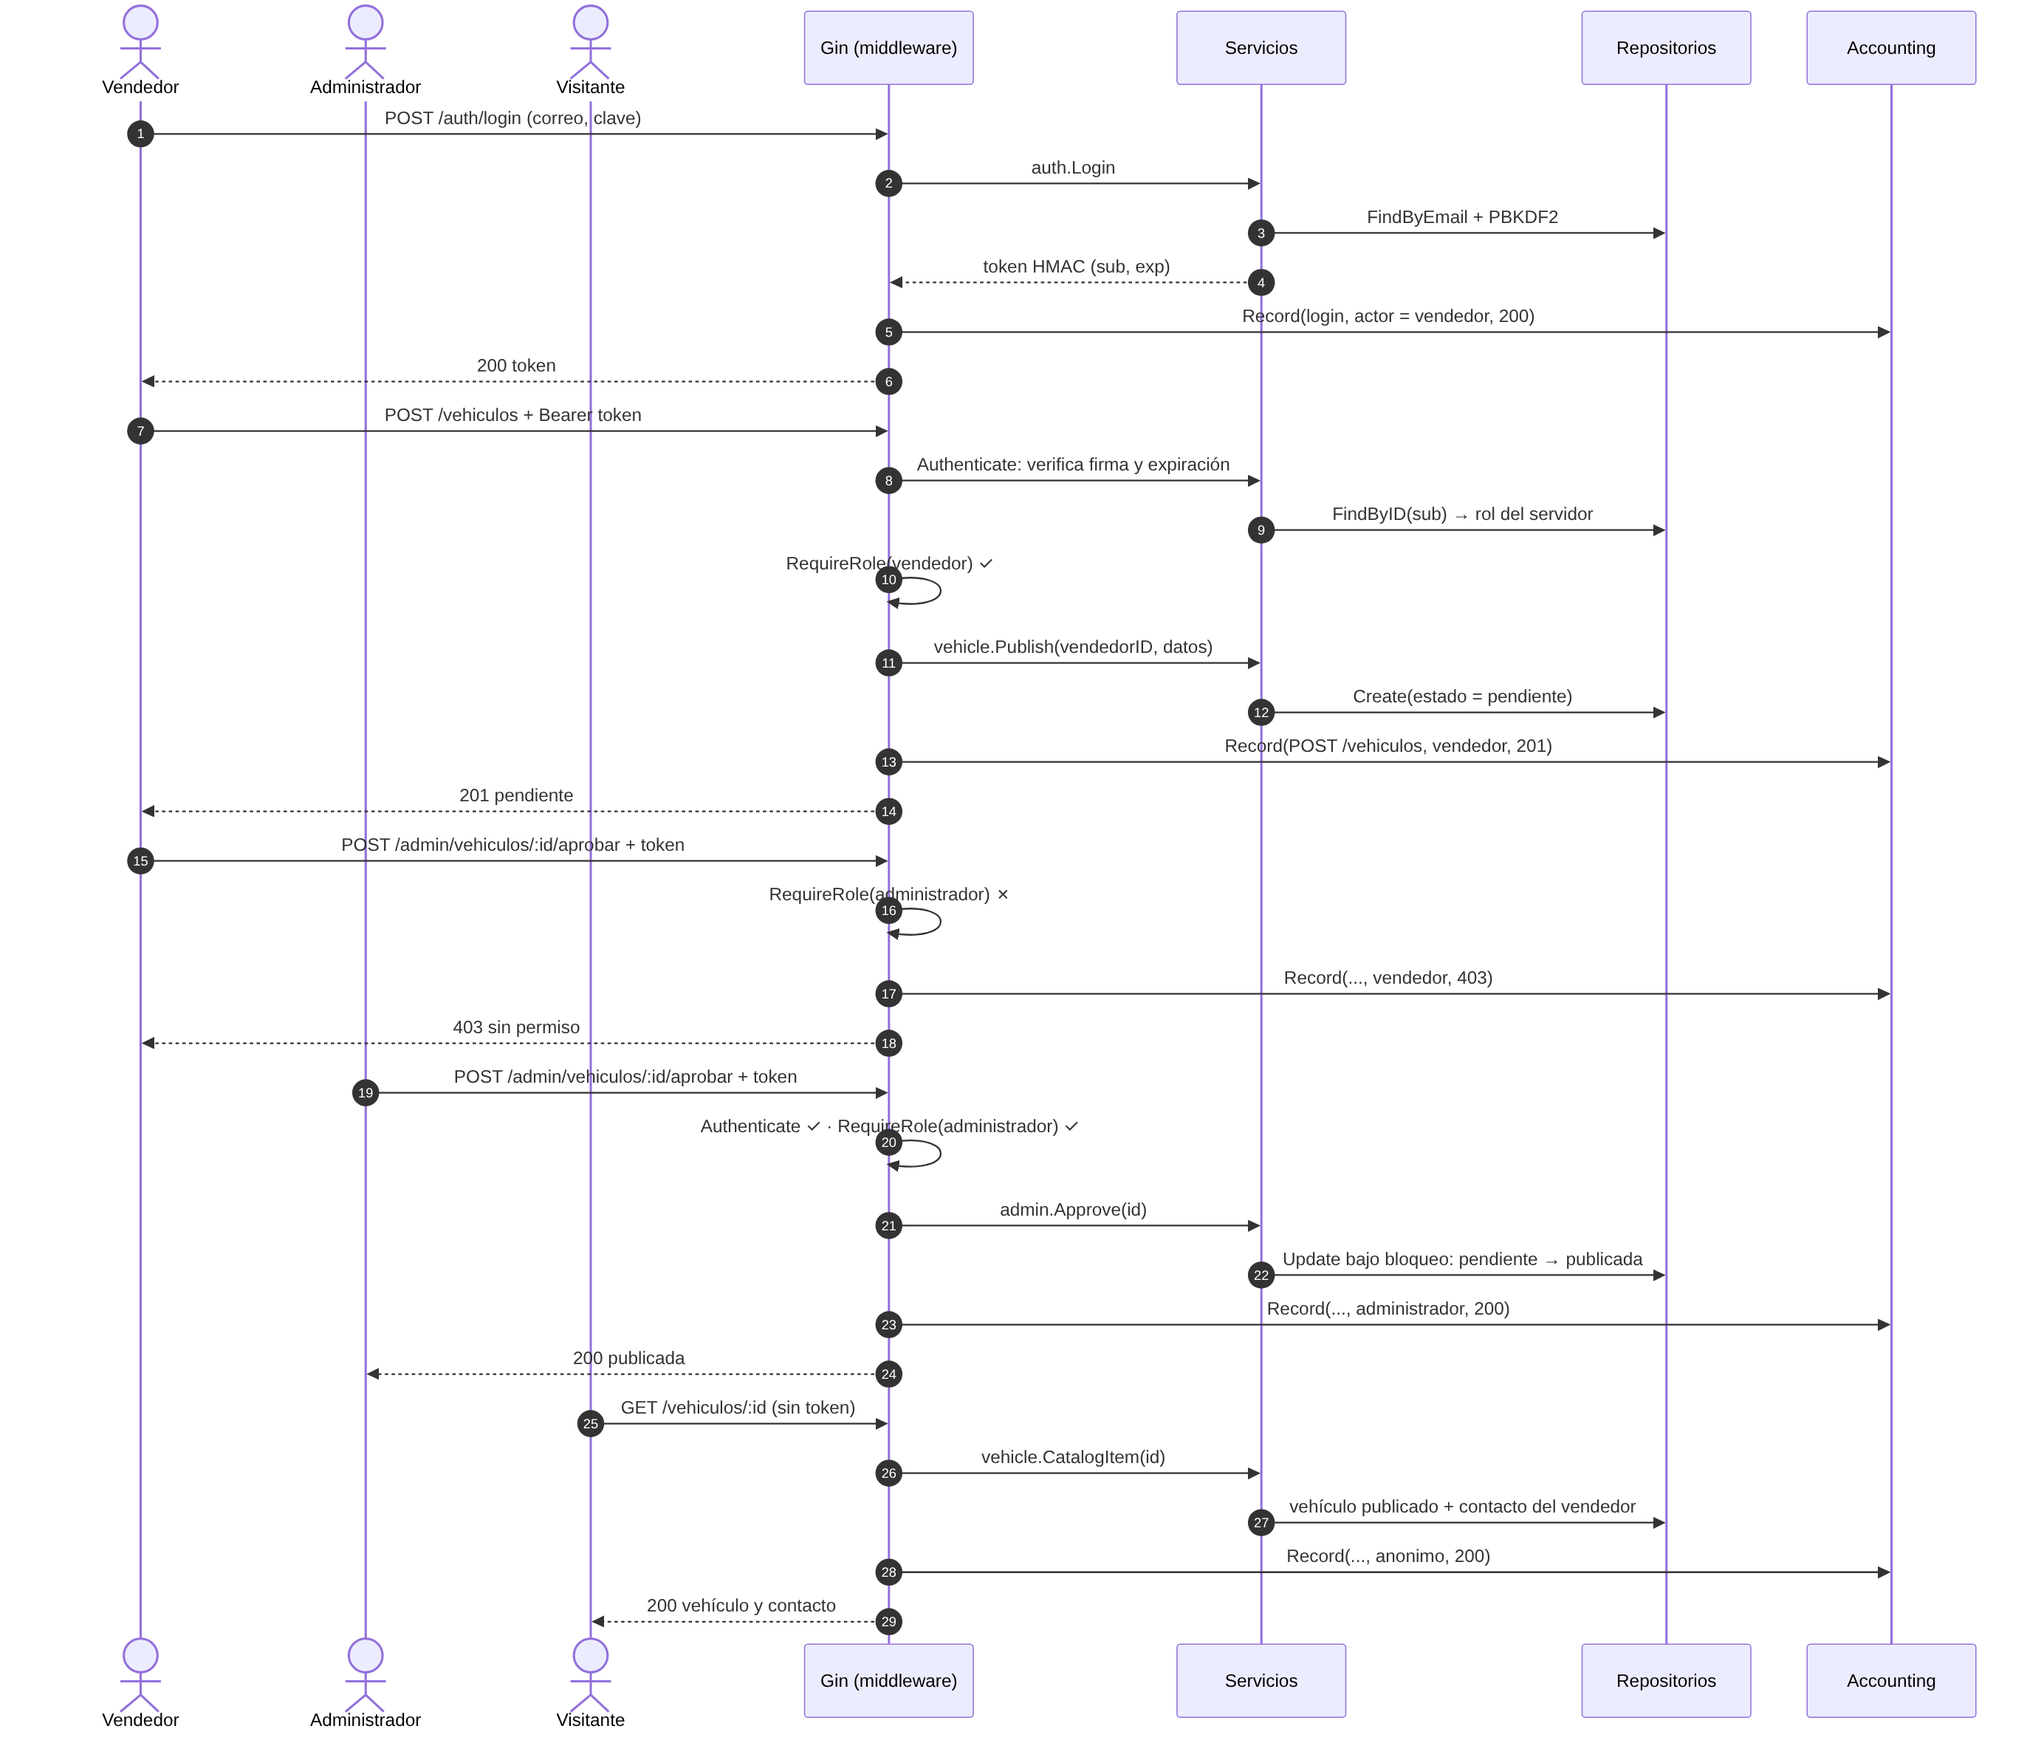
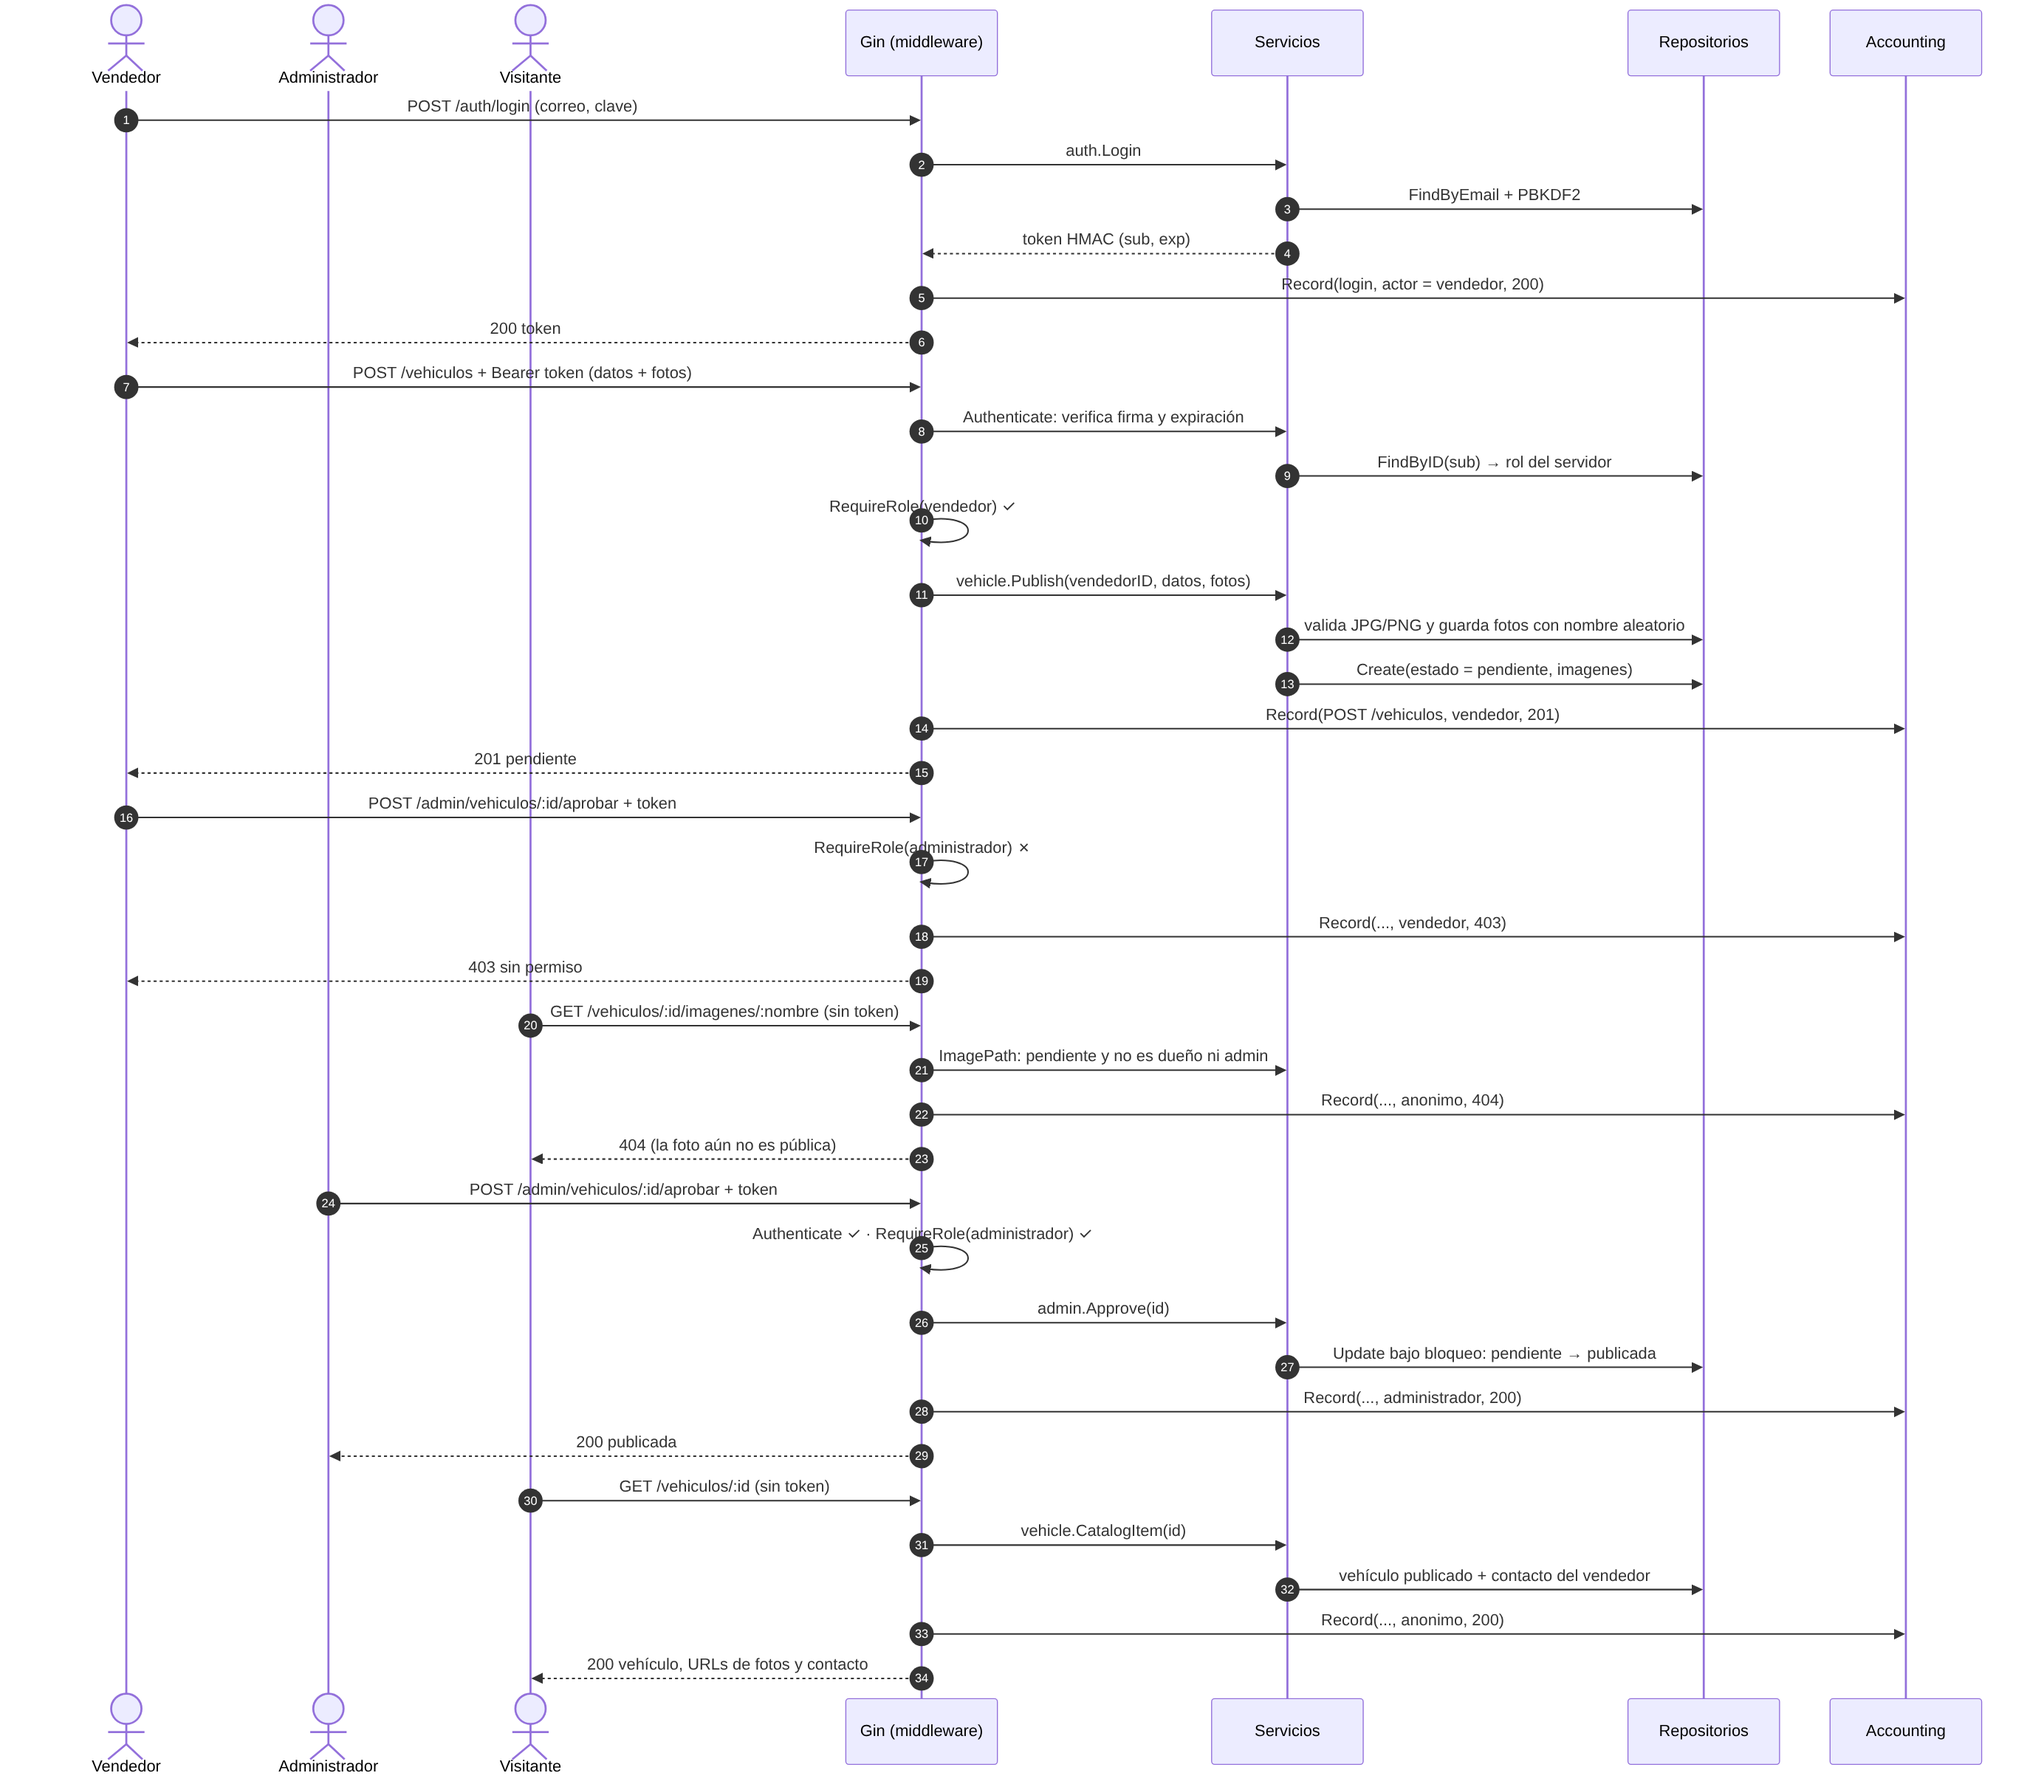
docs: fotos en guías, rutas y diagramas
Claude-Session: https://claude.ai/code/session_01RDBKRRiPf5cGR5gfdP9QC4

diff --git a/docs/integracion-vehiculos.md b/docs/integracion-vehiculos.md
@@ -16,6 +16,7 @@ AUTH_SECRET=cambia-esto go run ./cmd/server
 | Variable | Por defecto | Uso |
 |---|---|---|
 | `VEHICLES_FILE` | `data/vehicles.json` | Archivo de vehículos. |
+| `IMAGES_DIR` | `data/imagenes` | Carpeta de fotos (una subcarpeta por vehículo). |
 
 Las demás variables (`AUTH_SECRET`, `DATA_FILE`, `PORT`) están en
 [integracion-auth.md](integracion-auth.md).
@@ -36,19 +37,51 @@ el servidor; si el cliente los envía, se ignoran.
 |---|---|---|
 | `GET /vehiculos` | cualquiera | `200` lista de publicados, cada uno con `vendedor` (nombre, email, teléfono) |
 | `GET /vehiculos/:id` | cualquiera | `200` el vehículo con `vendedor`; `404` si no existe o no está publicado |
-| `POST /vehiculos` | vendedor | `201` publicación en estado `pendiente` |
+| `POST /vehiculos` | vendedor | `201` publicación en estado `pendiente` (multipart: datos + 1 a 8 fotos) |
+| `GET /vehiculos/:id/imagenes/:nombre` | ver abajo | `200` la foto; `404` si no existe o no puede verla |
+| `POST /vehiculos/:id/imagenes` | vendedor dueño, solo pendiente | `200` agrega fotos; `409` si ya fue aprobada |
+| `DELETE /vehiculos/:id/imagenes/:nombre` | vendedor dueño, solo pendiente | `200` quita una foto (siempre queda al menos una) |
 | `POST /vehiculos/:id/venta` | vendedor dueño | `200` estado `vendida`; `403` si es de otro; `409` si ya estaba vendida |
 | `GET /vendedor/vehiculos` | vendedor | `200` sus publicaciones en cualquier estado |
 
 ```bash
 TOKEN=…   # de POST /auth/login
 curl -X POST localhost:8080/vehiculos -H "Authorization: Bearer $TOKEN" \
-  -H 'Content-Type: application/json' \
-  -d '{"marca":"Renault","modelo":"Koleos","anio":2019,"precio":78000000,"kilometraje":60000}'
+  -F marca=Renault -F modelo=Koleos -F anio=2019 -F precio=78000000 -F kilometraje=60000 \
+  -F imagenes=@frente.jpg -F imagenes=@interior.png
 ```
 
 Errores: `400` datos inválidos, `401` sin token válido, `403` rol o dueño
-incorrecto, `404`, `409`. Siempre con la forma `{"error":"mensaje"}`.
+incorrecto, `404`, `409`, `413` formulario demasiado grande. Siempre con la
+forma `{"error":"mensaje"}`.
+
+## Fotos
+
+- **Dónde:** archivos en `data/imagenes/<id del vehículo>/`. En `vehicles.json`
+  cada vehículo solo guarda la lista de nombres (`"imagenes": ["a1b2….jpg", …]`);
+  la primera es la portada.
+- **Validación (`internal/imagestore`, solo librería estándar):**
+  - De 1 a 8 fotos por publicación, máximo 5 MB cada una y 6000 × 6000 px.
+  - Solo JPG o PNG, comprobado leyendo la cabecera del archivo con
+    `image.DecodeConfig`; no se confía en el nombre ni en el `Content-Type` del
+    cliente.
+  - El cuerpo de la solicitud se corta en 41 MB (`http.MaxBytesReader`).
+- **Nombres:** los genera el servidor (32 caracteres aleatorios + extensión) y
+  se descarta el nombre original. `Path` solo acepta ese formato, así que no se
+  puede leer ni escribir fuera de la carpeta (`../`).
+- **Quién las ve (AAA):** las de un vehículo publicado son públicas. Las de uno
+  pendiente o vendido solo las ven su vendedor y el administrador; los demás
+  reciben `404`, igual que en el catálogo. La ruta acepta el token por
+  `Authorization: Bearer` o por la cookie de sesión (`OptionalAuthenticate`),
+  porque el navegador las pide desde `<img>`.
+- **Cambios:** el vendedor puede agregar y quitar fotos solo mientras la
+  publicación está pendiente, para que el administrador apruebe exactamente lo
+  que se mostrará.
+- **Respuesta:** `X-Content-Type-Options: nosniff`, para que el navegador nunca
+  la interprete como otra cosa que una imagen.
+- **Accounting:** cada vez que alguien ve una foto queda una entrada
+  `GET /vehiculos/:id/imagenes/:nombre` con su resultado.
+- **Borrado:** al eliminar una publicación o un usuario se borran también sus fotos.
 
 ## Sitio web (plantillas de Gin)
 
@@ -57,6 +90,7 @@ incorrecto, `404`, `409`. Siempre con la forma `{"error":"mensaje"}`.
 | `/` catálogo y `/catalogo/:id` detalle con contacto | cualquiera |
 | `/ingresar`, `/registro`, `POST /salir` | cualquiera |
 | `/publicar`, `/mis-vehiculos`, `POST /mis-vehiculos/:id/vendido` | vendedor |
+| `/mis-vehiculos/:id/fotos` (agregar y quitar fotos mientras está pendiente) | vendedor dueño |
 
 - Plantillas `html/template` + un CSS, en `internal/httpapi/web/`, embebidos en
   el ejecutable. Sin JavaScript ni librerías externas.
@@ -81,7 +115,12 @@ incorrecto, `404`, `409`. Siempre con la forma `{"error":"mensaje"}`.
 
 ## Decisiones de diseño
 
-- Datos del vehículo: marca, modelo, año, precio (pesos, entero) y kilometraje.
+- Datos del vehículo: marca, modelo, año, precio (pesos, entero), kilometraje y de 1 a 8 fotos.
+- Galería del detalle sin JavaScript: un radio oculto por foto; miniaturas y
+  flechas son `<label>` que lo marcan, y el CSS muestra la foto marcada. La
+  vista ampliada se abre con `#ampliada-N` (`:target`) y ofrece "Ajustar a la
+  pantalla" y "Ampliar 2×" (otro par de radios). Con el teclado, las flechas
+  cambian de foto.
 - `jsonfile` comparte la carga y la escritura atómica con el repositorio de
   usuarios; `ids` comparte el generador de IDs aleatorios (no se pueden
   adivinar ni recorrer en orden).

diff --git a/docs/guia-ejecucion.md b/docs/guia-ejecucion.md
@@ -40,6 +40,7 @@ Sitio: http://localhost:8080 · API: mismas rutas, en JSON.
 | `PORT` | no | `8080` | Puerto HTTP. |
 | `DATA_FILE` | no | `data/users.json` | Usuarios. |
 | `VEHICLES_FILE` | no | `data/vehicles.json` | Vehículos. |
+| `IMAGES_DIR` | no | `data/imagenes` | Fotos de los vehículos. |
 | `ACCOUNTING_FILE` | no | `data/accounting.log` | Registro de accounting. |
 
 Para empezar de cero, borre la carpeta `data/`.
@@ -48,9 +49,12 @@ Para empezar de cero, borre la carpeta `data/`.
 
 1. **Visitante:** abrir `/`. El catálogo está vacío.
 2. **Registro y autenticación:** "Vender mi carro", crear la cuenta e ingresar.
-3. **Publicar:** "Publicar vehículo". Queda *Pendiente de aprobación* en "Mis vehículos" y no aparece en el catálogo.
+3. **Publicar:** "Publicar vehículo" con sus datos y de 1 a 8 fotos (JPG o PNG). Queda *Pendiente de aprobación* en "Mis vehículos" y no aparece en el catálogo. Mostrar también que un archivo que no es imagen se rechaza.
+   - **Fotos privadas:** copiar la dirección de una foto, abrirla en una ventana de incógnito (sin sesión) y ver que responde que no existe.
+   - **Cambiar fotos:** en "Mis vehículos", "Cambiar fotos" para agregar o quitar mientras está pendiente.
 4. **Autorización:** con la sesión del vendedor, abrir `/panel`: responde *Tu cuenta no tiene permiso para esto* (403).
-5. **Administrador:** salir, ingresar con `ADMIN_EMAIL`, abrir "Panel de administración" y aprobar. Ahora aparece en el catálogo con el contacto del vendedor.
+5. **Administrador:** salir, ingresar con `ADMIN_EMAIL`, abrir "Panel de administración", revisar las fotos y aprobar. Ahora aparece en el catálogo con sus fotos y el contacto del vendedor, y el vendedor ya no puede cambiar las fotos.
+   - **Galería:** en el detalle, pasar fotos con las flechas o las miniaturas, hacer clic para ampliar y usar "Ampliar 2×".
 6. **Venta:** volver como vendedor y "Reportar venta". Sale del catálogo.
 7. **Eliminar usuario:** como administrador, eliminar al vendedor. Su sesión deja de servir.
 8. **Accounting:** abrir `data/accounting.log`. Cada línea muestra operación, recurso, actor, rol, resultado, IP y momento.
@@ -72,8 +76,9 @@ TOKEN=$(curl -s -X POST localhost:8080/auth/login -H 'Content-Type: application/
   -d '{"email":"ana@correo.com","password":"clave-segura-1"}' | sed -E 's/.*"token":"([^"]+)".*/\1/')
 
 # Publicar (vendedor)
-curl -X POST localhost:8080/vehiculos -H "Authorization: Bearer $TOKEN" -H 'Content-Type: application/json' \
-  -d '{"marca":"Renault","modelo":"Koleos","anio":2019,"precio":78000000,"kilometraje":60000}'
+curl -X POST localhost:8080/vehiculos -H "Authorization: Bearer $TOKEN" \
+  -F marca=Renault -F modelo=Koleos -F anio=2019 -F precio=78000000 -F kilometraje=60000 \
+  -F imagenes=@frente.jpg -F imagenes=@interior.png
 
 # Aprobar (administrador)
 ADMIN=$(curl -s -X POST localhost:8080/auth/login -H 'Content-Type: application/json' \
@@ -91,11 +96,13 @@ curl localhost:8080/vehiculos
 |---|---|
 | `POST /auth/register`, `POST /auth/login` | visitante |
 | `GET /vehiculos`, `GET /vehiculos/:id` | visitante |
+| `GET /vehiculos/:id/imagenes/:nombre` | visitante si está publicada; si no, dueño o administrador |
 | `POST /vehiculos`, `POST /vehiculos/:id/venta`, `GET /vendedor/vehiculos` | vendedor |
+| `POST /vehiculos/:id/imagenes`, `DELETE /vehiculos/:id/imagenes/:nombre` | vendedor dueño, solo pendiente |
 | `GET /admin/vehiculos`, `POST /admin/vehiculos/:id/aprobar`, `DELETE /admin/vehiculos/:id` | administrador |
 | `GET /admin/usuarios`, `DELETE /admin/usuarios/:id` | administrador |
 | Páginas: `/`, `/catalogo/:id`, `/ingresar`, `/registro` | visitante |
-| Páginas: `/publicar`, `/mis-vehiculos` | vendedor |
+| Páginas: `/publicar`, `/mis-vehiculos`, `/mis-vehiculos/:id/fotos` | vendedor |
 | Página: `/panel` | administrador |
 
-Errores de la API: `{"error":"mensaje"}` con `400`, `401`, `403`, `404`, `409` o `500`.
+Errores de la API: `{"error":"mensaje"}` con `400`, `401`, `403`, `404`, `409`, `413` o `500`.

diff --git a/README.md b/README.md
@@ -7,12 +7,14 @@ API backend en Go (solo standard library + Gin) con el marco de seguridad AAA
 cmd/server/            punto de entrada
 internal/user/         modelo de usuario y persistencia
 internal/auth/         registro, login, hash de contraseñas y tokens
-internal/vehicle/      publicaciones, estados y catálogo
+internal/vehicle/      publicaciones, estados, fotos y catálogo
+internal/imagestore/   fotos en disco: validación JPG/PNG, nombres aleatorios
 internal/admin/        moderación de publicaciones y usuarios
 internal/accounting/   registro de operaciones encadenado con HMAC
 internal/jsonfile/     carga y escritura atómica de archivos JSON
 internal/apperr/       errores comunes (validación)
 internal/ids/          identificadores aleatorios
+internal/testimg/      imágenes pequeñas para las pruebas
 internal/httpapi/      rutas, handlers y middleware (Gin): API JSON y páginas web
 internal/httpapi/web/  plantillas HTML y CSS (embebidos en el ejecutable)
 docs/                  guías de integración
